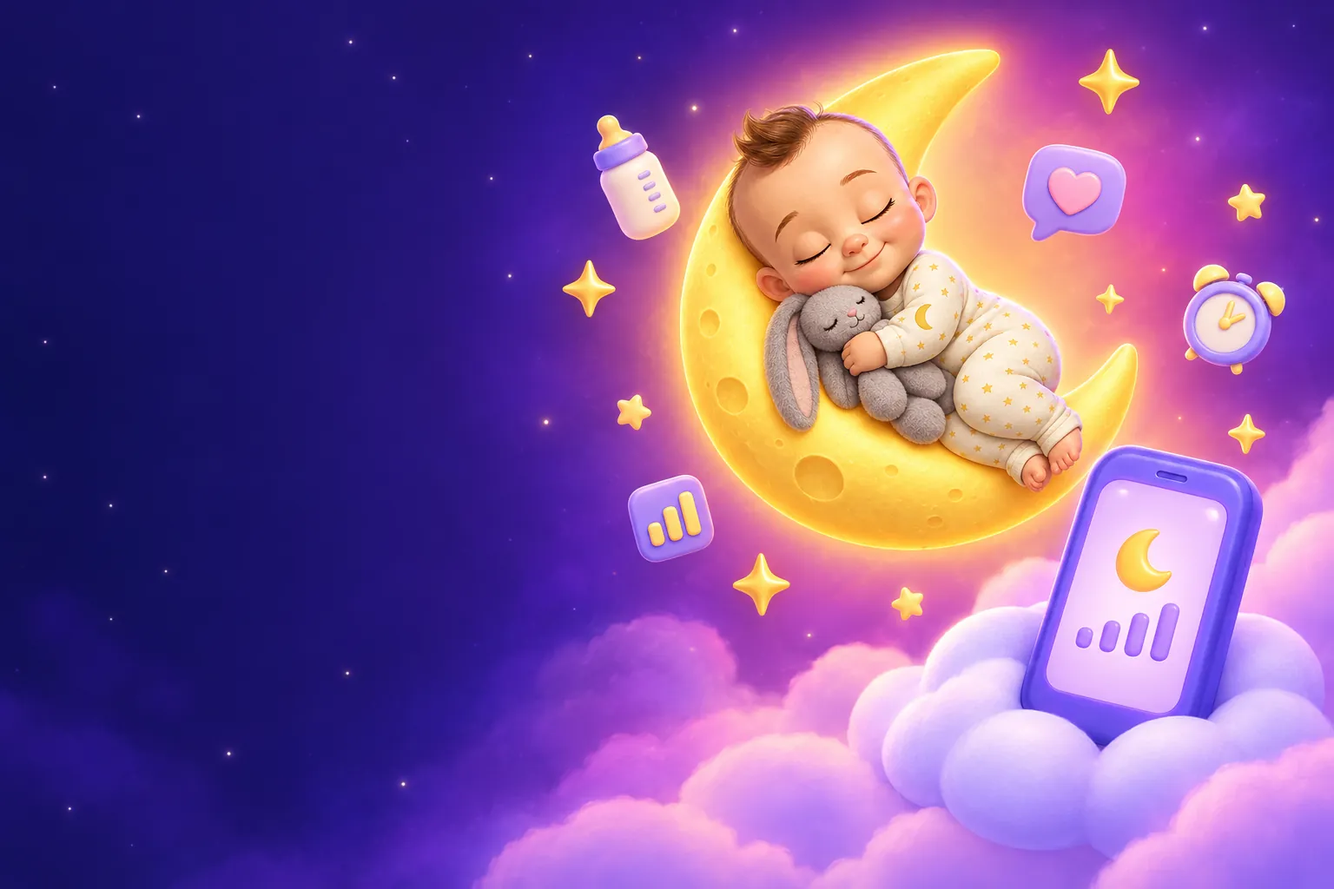
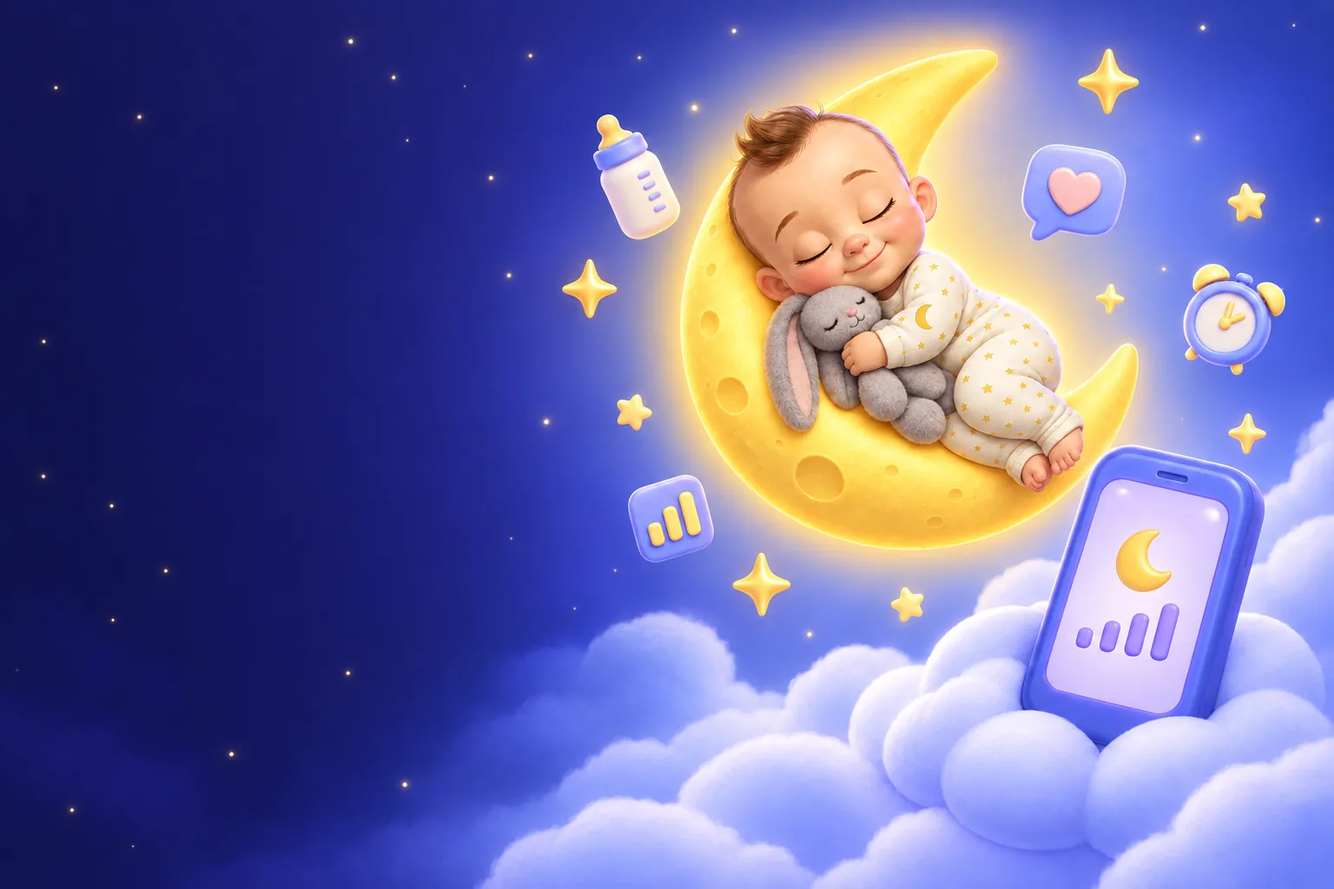
support: illustrated topic panels; the site's own palette; no reply-time promise
- The questions on the support page are no longer a scatter of equal boxes:
  a chip row jumps to a topic, and every topic is a glass panel with its own
  «object on a cloud» illustration (three new ones drawn to match the set:
  card with a crown, padlock with a heart, lifebuoy with a wrench) and its
  questions as clean rows with a gold accent on the open one. Answers are
  larger and brighter everywhere (15–16 px at 80 % instead of 14 px at 65 %).
  Topic anchors sit outside the reveal animation so a jump lands exactly.
- The pink-magenta gradients were foreign to the site. The contact panel,
  the «still have questions» teaser, the About mission card and the App
  Store banner are now in the site's indigo / periwinkle / gold; the banner
  scene was redrawn in that palette (same composition, no pink). The form
  uses the site's glass fields and its white pill.
- «We reply within 3 working days» is gone from the interface — the pill,
  the teaser line and the after-send message in 23 languages (it stays in
  the offer, where it belongs).

diff --git a/app/info/SupportPage.tsx b/app/info/SupportPage.tsx
@@ -1,4 +1,4 @@
-import { Clock, Gift, Mail } from 'lucide-react';
+import { Gift, Mail } from 'lucide-react';
 import { Art, Sparkle } from '../home/art';
 import { CtaBand, FaqItem, whitePill } from '../home/CtaBand';
 import { docsLang, isRtl, siteCopy, type SiteLocale } from '../i18n';
@@ -11,6 +11,8 @@ import { sellsHere } from '../subscription/region';
 import { StarField } from '../subscription/StarField';
 
 const topicIcons = ['icon-sparkle', 'icon-card', 'icon-heart', 'icon-clock', 'icon-bolt'];
+// One scene of the «object on a cloud» set per topic, in the order of `support.topics`.
+const topicArt = ['scene-phone', 'scene-card', 'scene-lock', 'scene-clock', 'scene-help'];
 
 // The help page every app of this kind has (Napper's Support, Huckleberry's
 // Help): questions grouped by topic, answered with the app's own labels,
@@ -64,21 +66,47 @@ export async function SupportPage({ locale }: { locale: SiteLocale }) {
           </div>
         </section>
 
-        <section className="mx-auto grid max-w-7xl gap-10 px-5 pb-6 sm:px-8 lg:px-10">
+        <nav aria-label={copy.eyebrow} className="mx-auto max-w-7xl px-5 pb-6 sm:px-8 lg:px-10">
+          <ul className="-mx-5 flex gap-2 overflow-x-auto px-5 pb-1 [scrollbar-width:none] sm:mx-0 sm:flex-wrap sm:overflow-visible sm:px-0 [&::-webkit-scrollbar]:hidden">
+            {copy.topics.map((topic, index) => (
+              <li className="shrink-0" key={topic.title}>
+                <a
+                  className="inline-flex items-center gap-2 whitespace-nowrap rounded-full border border-white/12 bg-white/[0.06] py-1.5 pe-4 ps-1.5 text-sm font-medium text-white/85 backdrop-blur transition hover:border-white/30 hover:bg-white/[0.1] hover:text-white"
+                  href={`#topic-${index + 1}`}
+                >
+                  <span className="grid h-8 w-8 place-items-center rounded-full bg-white/[0.08]">
+                    <Art className="h-5 w-5 object-contain" height={192} name={topicIcons[index] ?? 'icon-question'} width={192} />
+                  </span>
+                  {topic.title}
+                </a>
+              </li>
+            ))}
+          </ul>
+        </nav>
+
+        <section className="mx-auto grid max-w-7xl gap-6 px-5 pb-6 sm:px-8 lg:px-10">
           {copy.topics.map((topic, index) => (
-            <Reveal key={topic.title}>
-              <div className="flex items-center gap-3">
-                <span className="grid h-11 w-11 shrink-0 place-items-center rounded-full bg-white/[0.08] ring-1 ring-white/15">
-                  <Art className="h-7 w-7 object-contain" height={192} name={topicIcons[index] ?? 'icon-question'} width={192} />
-                </span>
-                <h2 className="text-xl font-semibold text-white sm:text-2xl">{topic.title}</h2>
-              </div>
-              <div className="mt-4 grid items-start gap-3 md:grid-cols-2">
-                {topic.items.map((item) => (
-                  <FaqItem answer={item.answer} key={item.question} question={item.question} />
-                ))}
-              </div>
+            // The anchor sits outside Reveal: a panel still sliding in would make the jump land short.
+            <div className="scroll-mt-6" id={`topic-${index + 1}`} key={topic.title}>
+            <Reveal>
+              <article className="relative isolate overflow-hidden rounded-[2rem] border border-white/10 bg-[linear-gradient(160deg,rgb(255_255_255/0.08),rgb(255_255_255/0.03))] p-5 shadow-[0_30px_90px_rgb(0_0_0/18%)] backdrop-blur-xl sm:p-8 lg:grid lg:grid-cols-[14rem_1fr] lg:items-start lg:gap-10">
+                <div aria-hidden="true" className="absolute -start-16 -top-16 -z-10 h-64 w-64 rounded-full bg-[#6366F1]/25 blur-3xl" />
+                <header className="flex items-center gap-4 lg:sticky lg:top-6 lg:block lg:text-center">
+                  <div aria-hidden="true" className="w-20 shrink-0 sm:w-24 lg:mx-auto lg:w-44">
+                    <div className={index % 2 === 0 ? 'float-slow' : 'float-slower'}>
+                      <Art className="h-auto w-full drop-shadow-[0_18px_30px_rgb(15_16_34/40%)]" height={440} name={topicArt[index] ?? 'scene-phone'} width={440} />
+                    </div>
+                  </div>
+                  <h2 className="text-xl font-semibold leading-7 text-white sm:text-2xl lg:mt-3">{topic.title}</h2>
+                </header>
+                <div className="mt-3 divide-y divide-white/10 border-t border-white/10 lg:mt-0 lg:border-t-0">
+                  {topic.items.map((item) => (
+                    <FaqItem answer={item.answer} key={item.question} question={item.question} variant="row" />
+                  ))}
+                </div>
+              </article>
             </Reveal>
+            </div>
           ))}
           {web ? (
             <p className="text-sm leading-6 text-white/70">
@@ -91,8 +119,9 @@ export async function SupportPage({ locale }: { locale: SiteLocale }) {
 
         <section className="mx-auto max-w-7xl scroll-mt-6 px-5 py-10 sm:px-8 lg:px-10" id="contact">
           <Reveal>
-            <div className="relative isolate overflow-hidden rounded-[2rem] border border-white/15 bg-[radial-gradient(120%_150%_at_8%_0%,#DB2777_0%,#9333EA_36%,#5B21B6_62%,#2E1065_100%)] shadow-[0_40px_120px_rgb(147_51_234/35%)]">
-              <div aria-hidden="true" className="absolute -bottom-32 -start-20 -z-10 h-80 w-80 rounded-full bg-[#FDE68A]/20 blur-3xl" />
+            <div className="relative isolate overflow-hidden rounded-[2rem] border border-white/12 bg-[linear-gradient(135deg,#312E81_0%,#3730A3_45%,#4F46E5_100%)] shadow-[0_30px_90px_rgb(79_70_229/30%)]">
+              <div aria-hidden="true" className="absolute -top-24 start-[4%] -z-10 h-72 w-72 rounded-full bg-[#FDE68A]/15 blur-3xl" />
+              <Art className="drift pointer-events-none absolute -bottom-[18%] start-[-5%] -z-10 w-[110%] max-w-none opacity-25 rtl:-scale-x-100" height={511} name="cloud-bank" width={1536} />
               <div className="grid gap-8 p-6 sm:p-10 lg:grid-cols-[0.82fr_1.18fr] lg:items-center lg:gap-12">
                 <div className="text-center lg:text-start">
                   <div aria-hidden="true" className="relative mx-auto w-[min(62%,15rem)] lg:mx-0 lg:w-[min(80%,19rem)]">
@@ -103,12 +132,8 @@ export async function SupportPage({ locale }: { locale: SiteLocale }) {
                   <p className="mt-6 text-sm font-semibold uppercase tracking-wide text-[#FDE68A]">{copy.contact.title}</p>
                   <h2 className="mt-2 text-[2rem] font-semibold leading-[1.1] text-white sm:text-[2.4rem]">{site.footerLabels.write}</h2>
                   <p className="mx-auto mt-4 max-w-md text-base leading-7 text-white/85 lg:mx-0">{copy.contact.body}</p>
-                  <p className="mt-5 inline-flex items-center gap-2 rounded-full bg-white/15 px-4 py-2 text-sm font-semibold text-white ring-1 ring-white/25 backdrop-blur">
-                    <Clock aria-hidden="true" className="h-4 w-4" />
-                    {copy.contact.reply}
-                  </p>
                 </div>
-                <div className="rounded-[1.75rem] bg-white/10 p-5 ring-1 ring-white/20 backdrop-blur-xl sm:p-7">
+                <div className="rounded-[1.75rem] border border-white/12 bg-[#1E1B4B]/45 p-5 backdrop-blur-xl sm:p-7">
                   <ContactForm
                     copy={copy.form}
                     lang={locale}

diff --git a/app/info/ContactForm.tsx b/app/info/ContactForm.tsx
@@ -93,8 +93,8 @@ export function ContactForm({
 
   const label = 'block text-sm font-semibold text-white';
   const field =
-    'mt-2 w-full rounded-2xl border-2 border-transparent bg-white px-4 py-3 text-base text-[#1E1B4B] shadow-[0_10px_30px_rgb(30_27_75/18%)] placeholder:text-[#1E1B4B]/40 focus:border-[#FDE68A] focus:outline-none';
-  const alert = 'rounded-2xl bg-[#1E1B4B]/55 px-4 py-3 text-sm font-medium text-[#FDE68A]';
+    'mt-2 w-full rounded-2xl border border-white/20 bg-white/[0.08] px-4 py-3 text-base text-white placeholder:text-white/40 transition focus:border-[#FDE68A]/80 focus:bg-white/[0.12] focus:outline-none';
+  const alert = 'rounded-2xl bg-[#FDE68A]/15 px-4 py-3 text-sm font-medium text-[#FDE68A]';
   return (
     <form className="grid gap-4" noValidate onSubmit={(event) => void submit(event)}>
       <div className="grid gap-4 sm:grid-cols-2">
@@ -125,14 +125,14 @@ export function ContactForm({
         </p>
       ) : null}
       <button
-        className="inline-flex min-h-14 w-full items-center justify-center gap-2.5 rounded-full bg-[#FDE68A] px-7 text-base font-semibold text-[#1E1B4B] shadow-[0_18px_44px_rgb(253_230_138/28%)] transition hover:-translate-y-0.5 hover:bg-[#FCD34D] focus:outline-none focus-visible:ring-4 focus-visible:ring-white/50 disabled:translate-y-0 disabled:opacity-70"
+        className="inline-flex min-h-14 w-full items-center justify-center gap-2.5 rounded-full bg-white px-7 text-base font-semibold text-[#1E1B4B] shadow-[0_18px_50px_rgb(255_255_255/14%)] transition hover:-translate-y-0.5 hover:bg-[#EEF2FF] focus:outline-none focus-visible:ring-4 focus-visible:ring-white/30 disabled:translate-y-0 disabled:opacity-70"
         disabled={state === 'sending'}
         type="submit"
       >
         {state === 'sending' ? <Spinner className="h-5 w-5" /> : <Send aria-hidden="true" className="h-5 w-5 rtl:-scale-x-100" />}
         {state === 'sending' ? copy.sending : copy.send}
       </button>
-      <p className="text-center text-xs leading-5 text-white/70">
+      <p className="text-center text-xs leading-5 text-white/60">
         {copy.privacy}{' '}
         <a className="font-semibold text-white underline decoration-white/40 underline-offset-2 hover:decoration-white" href={privacyHref}>
           {privacyLabel}

diff --git a/app/home/CtaBand.tsx b/app/home/CtaBand.tsx
@@ -53,14 +53,29 @@ export function CtaBand({ title, body, action, note }: { title: string; body: st
 // word joiner keeps number ranges on one line.
 const keepRanges = (text: string) => text.replace(/(\d[–-])(?=\d)/g, '$1\u2060');
 
-export function FaqItem({ question, answer }: { question: string; answer: string }) {
+// `card` is a box of its own (home, subscription); `row` is a line inside a
+// topic panel (support), separated from its neighbours by the panel's rules.
+export function FaqItem({ question, answer, variant = 'card' }: { question: string; answer: string; variant?: 'card' | 'row' }) {
+  if (variant === 'row') {
+    return (
+      <details className="group">
+        <summary className="flex cursor-pointer list-none items-center justify-between gap-4 py-4 text-[17px] font-medium leading-7 text-white/90 transition hover:text-white focus:outline-none focus-visible:underline [&::-webkit-details-marker]:hidden">
+          {question}
+          <span className="grid h-9 w-9 shrink-0 place-items-center rounded-full border border-white/15 bg-white/[0.06] transition duration-300 group-open:rotate-45 group-open:border-[#FDE68A]/60 group-open:bg-[#FDE68A]/15">
+            <Plus className="h-4 w-4 text-white transition group-open:text-[#FDE68A]" aria-hidden="true" />
+          </span>
+        </summary>
+        <p className="max-w-3xl pb-5 pe-12 text-base leading-7 text-white/80">{keepRanges(answer)}</p>
+      </details>
+    );
+  }
   return (
     <details className="group rounded-2xl border border-white/12 bg-white/[0.06] backdrop-blur-xl transition open:bg-white/[0.09] hover:border-white/25">
       <summary className="flex min-h-20 cursor-pointer list-none items-center justify-between gap-4 px-5 py-4 text-[15px] font-medium leading-6 text-white focus:outline-none focus-visible:underline [&::-webkit-details-marker]:hidden">
         {question}
         <Plus className="h-5 w-5 shrink-0 text-white/70 transition duration-300 group-open:rotate-45" aria-hidden="true" />
       </summary>
-      <p className="px-5 pb-5 text-sm leading-6 text-white/65">{keepRanges(answer)}</p>
+      <p className="px-5 pb-5 text-[15px] leading-7 text-white/80">{keepRanges(answer)}</p>
     </details>
   );
 }

diff --git a/app/i18n/th.ts b/app/i18n/th.ts
@@ -327,7 +327,6 @@ export const translation: SiteTranslation = {
     contact: {
       title: 'ยังมีคำถามอยู่ไหม?',
       body: 'เขียนถึงเราได้ที่นี่ หรือในแอป ไปที่ การตั้งค่า → “เขียนถึงเรา” เพื่อเปิดแชทกับเรา',
-      reply: 'เราจะตอบกลับภายใน 3 วันทำการ',
     },
     form: {
       name: 'ชื่อของคุณ',
@@ -336,7 +335,7 @@ export const translation: SiteTranslation = {
       messagePlaceholder: 'เล่าให้เราฟังว่าเกิดอะไรขึ้นหรืออยากรู้เรื่องอะไร',
       send: 'ส่ง',
       sending: 'กำลังส่ง…',
-      sent: 'ขอบคุณ ได้รับข้อความของคุณแล้ว เราจะตอบกลับทางอีเมลภายใน 3 วันทำการ',
+      sent: 'ขอบคุณ ได้รับข้อความของคุณแล้ว เราจะตอบกลับทางอีเมล',
       error: 'ส่งข้อความไม่สำเร็จ ลองอีกครั้งในอีกหนึ่งนาที หรือเขียนถึงเราในแอปได้ที่ การตั้งค่า → “เขียนถึงเรา”',
       invalid: 'กรอกอีเมลและข้อความอย่างน้อย 10 ตัวอักษร',
       privacy: 'เราใช้อีเมลและข้อความของคุณเพื่อตอบกลับเท่านั้น',

diff --git a/app/i18n/hi.ts b/app/i18n/hi.ts
@@ -327,7 +327,6 @@ export const translation: SiteTranslation = {
     contact: {
       title: 'अब भी मदद चाहिए?',
       body: 'हमें यहाँ लिखें — या ऐप में: सेटिंग्स → “हमें लिखें” से हमारे साथ चैट खुलती है।',
-      reply: 'हम 3 कार्य दिवसों के भीतर जवाब देते हैं।',
     },
     form: {
       name: 'आपका नाम',
@@ -336,7 +335,7 @@ export const translation: SiteTranslation = {
       messagePlaceholder: 'बताइए कि क्या हुआ या आप क्या जानना चाहते हैं',
       send: 'भेजें',
       sending: 'भेजा जा रहा है…',
-      sent: 'धन्यवाद! हमें आपका संदेश मिल गया है, हम 3 कार्य दिवसों के भीतर ईमेल से जवाब देंगे।',
+      sent: 'धन्यवाद! हमें आपका संदेश मिल गया है, हम ईमेल से जवाब देंगे।',
       error: 'संदेश नहीं भेजा जा सका। एक मिनट बाद फिर कोशिश करें — या हमें ऐप में लिखें: सेटिंग्स → “हमें लिखें”।',
       invalid: 'अपना ईमेल और कम से कम 10 अक्षरों का संदेश लिखें।',
       privacy: 'आपका ईमेल और संदेश हम सिर्फ़ आपको जवाब देने के लिए इस्तेमाल करते हैं।',

diff --git a/app/info/ContactTeaser.tsx b/app/info/ContactTeaser.tsx
@@ -11,13 +11,10 @@ export function ContactTeaser({ locale }: { locale: SiteLocale }) {
   const support = locale === 'en' ? '/support' : `/${locale}/support`;
   return (
     <Reveal>
-      <div className="relative isolate mt-8 flex flex-col items-center gap-5 overflow-hidden rounded-[1.75rem] border border-white/15 bg-[linear-gradient(100deg,#5B21B6_0%,#9333EA_55%,#DB2777_100%)] p-5 text-center shadow-[0_24px_70px_rgb(147_51_234/30%)] sm:flex-row sm:justify-between sm:p-6 sm:text-start">
+      <div className="relative isolate mt-8 flex flex-col items-center gap-5 overflow-hidden rounded-[1.75rem] border border-white/12 bg-[linear-gradient(100deg,rgb(99_102_241/0.22)_0%,rgb(255_255_255/0.05)_60%)] p-5 text-center backdrop-blur-xl sm:flex-row sm:justify-between sm:p-6 sm:text-start">
         <div className="flex flex-col items-center gap-4 sm:flex-row">
           <Art className="h-20 w-20 shrink-0 object-contain drop-shadow-[0_12px_24px_rgb(30_27_75/40%)]" height={765} name="contact-letter" width={760} />
-          <div className="min-w-0">
-            <p className="text-xl font-semibold leading-7 text-white">{site.support.contact.title}</p>
-            <p className="mt-1 text-sm leading-6 text-white/80">{site.support.contact.reply}</p>
-          </div>
+          <p className="min-w-0 text-xl font-semibold leading-7 text-white">{site.support.contact.title}</p>
         </div>
         <a className={`${whitePill} shrink-0`} href={`${support}#contact`}>
           <Mail aria-hidden="true" className="h-5 w-5" />

diff --git a/app/i18n/uk.ts b/app/i18n/uk.ts
@@ -326,7 +326,6 @@ export const translation: SiteTranslation = {
     contact: {
       title: 'Залишилися запитання?',
       body: 'Напишіть нам тут — або в застосунку: Налаштування → «Написати нам» відкриє чат із нами.',
-      reply: 'Відповідаємо протягом 3 робочих днів.',
     },
     form: {
       name: 'Ваше ім’я',
@@ -335,7 +334,7 @@ export const translation: SiteTranslation = {
       messagePlaceholder: 'Розкажіть, що сталося або що хочете дізнатися',
       send: 'Надіслати',
       sending: 'Надсилаємо…',
-      sent: 'Дякуємо! Ми отримали ваше повідомлення й відповімо на e-mail протягом 3 робочих днів.',
+      sent: 'Дякуємо! Ми отримали ваше повідомлення й відповімо на e-mail.',
       error: 'Не вдалося надіслати. Спробуйте ще раз за хвилину — або напишіть нам у застосунку: Налаштування → «Написати нам».',
       invalid: 'Вкажіть e-mail і повідомлення — щонайменше 10 символів.',
       privacy: 'Ваш e-mail і повідомлення використовуємо лише для відповіді.',

diff --git a/app/i18n/ru.ts b/app/i18n/ru.ts
@@ -198,7 +198,6 @@ export const translation: SiteTranslation = {
     contact: {
       title: 'Остались вопросы?',
       body: 'Напишите нам здесь — или в приложении: Настройки → «Написать нам» откроет чат с нами.',
-      reply: 'Отвечаем в течение 3 рабочих дней.',
     },
     form: {
       name: 'Ваше имя',
@@ -207,7 +206,7 @@ export const translation: SiteTranslation = {
       messagePlaceholder: 'Расскажите, что случилось или что хотите узнать',
       send: 'Отправить',
       sending: 'Отправляем…',
-      sent: 'Спасибо! Сообщение получили — ответим на ваш e-mail в течение 3 рабочих дней.',
+      sent: 'Спасибо! Сообщение получили — ответим на ваш e-mail.',
       error: 'Не получилось отправить. Попробуйте ещё раз через минуту — или напишите нам в приложении: Настройки → «Написать нам».',
       invalid: 'Укажите e-mail и сообщение — хотя бы 10 символов.',
       privacy: 'Ваш e-mail и сообщение используем только для ответа.',

diff --git a/app/i18n/ja.ts b/app/i18n/ja.ts
@@ -327,7 +327,6 @@ export const translation: SiteTranslation = {
     contact: {
       title: 'まだ解決しませんか？',
       body: 'このフォームから、またはアプリの「設定」→「メッセージを送る」から、私たちと直接やり取りできます。',
-      reply: '3営業日以内にご返信します。',
     },
     form: {
       name: 'お名前',
@@ -336,7 +335,7 @@ export const translation: SiteTranslation = {
       messagePlaceholder: '起きたことや知りたいことをお書きください',
       send: '送信',
       sending: '送信中…',
-      sent: 'ありがとうございます。メッセージを受け付けました。3営業日以内にメールでご返信します。',
+      sent: 'ありがとうございます。メッセージを受け付けました。メールでご返信します。',
       error: '送信できませんでした。1分ほどしてからもう一度お試しいただくか、アプリの「設定」→「メッセージを送る」からご連絡ください。',
       invalid: 'メールアドレスと10文字以上のメッセージを入力してください。',
       privacy: 'メールアドレスとメッセージは、ご返信のためだけに使用します。',

diff --git a/app/i18n/ar.ts b/app/i18n/ar.ts
@@ -326,7 +326,6 @@ export const translation: SiteTranslation = {
     contact: {
       title: 'ما زلت بحاجة إلى مساعدة؟',
       body: 'راسلنا من هنا، أو من التطبيق: اضغط على «الإعدادات» ← «راسلنا» لتُفتح محادثة معنا.',
-      reply: 'نردّ خلال 3 أيام عمل.',
     },
     form: {
       name: 'اسمك',
@@ -335,7 +334,7 @@ export const translation: SiteTranslation = {
       messagePlaceholder: 'أخبرنا بما حدث أو بما تود معرفته',
       send: 'إرسال',
       sending: 'جارٍ الإرسال…',
-      sent: 'شكرًا! وصلتنا رسالتك وسنرد عليك بالبريد الإلكتروني خلال 3 أيام عمل.',
+      sent: 'شكرًا! وصلتنا رسالتك وسنرد عليك بالبريد الإلكتروني.',
       error: 'تعذّر إرسال الرسالة. حاول مرة أخرى بعد دقيقة، أو راسلنا من التطبيق: «الإعدادات» ← «راسلنا».',
       invalid: 'أدخل بريدك الإلكتروني ورسالة لا تقل عن 10 أحرف.',
       privacy: 'نستخدم بريدك الإلكتروني ورسالتك للرد عليك فقط.',

diff --git a/app/i18n/vi.ts b/app/i18n/vi.ts
@@ -335,7 +335,6 @@ export const translation: SiteTranslation = {
     contact: {
       title: 'Vẫn cần hỗ trợ?',
       body: 'Viết cho chúng tôi tại đây — hoặc ngay trong ứng dụng: Cài đặt → “Viết cho chúng tôi” sẽ mở cuộc trò chuyện với chúng tôi.',
-      reply: 'Chúng tôi phản hồi trong vòng 3 ngày làm việc.',
     },
     form: {
       name: 'Tên của bạn',
@@ -344,7 +343,7 @@ export const translation: SiteTranslation = {
       messagePlaceholder: 'Hãy kể điều đã xảy ra hoặc điều bạn muốn biết',
       send: 'Gửi',
       sending: 'Đang gửi…',
-      sent: 'Cảm ơn bạn! Chúng tôi đã nhận được tin nhắn và sẽ trả lời qua email trong vòng 3 ngày làm việc.',
+      sent: 'Cảm ơn bạn! Chúng tôi đã nhận được tin nhắn và sẽ trả lời qua email.',
       error: 'Không gửi được tin nhắn. Hãy thử lại sau một phút — hoặc viết cho chúng tôi ngay trong ứng dụng: Cài đặt → “Viết cho chúng tôi”.',
       invalid: 'Hãy nhập email và tin nhắn ít nhất 10 ký tự.',
       privacy: 'Chúng tôi chỉ dùng email và tin nhắn của bạn để trả lời bạn.',

diff --git a/app/i18n/he.ts b/app/i18n/he.ts
@@ -326,7 +326,6 @@ export const translation: SiteTranslation = {
     contact: {
       title: 'עדיין צריכים עזרה?',
       body: 'כתבו לנו כאן — או באפליקציה: Settings ← ״Write to us״ פותח צ׳אט איתנו.',
-      reply: 'אנחנו עונים תוך 3 ימי עבודה.',
     },
     form: {
       name: 'השם שלכם',
@@ -335,7 +334,7 @@ export const translation: SiteTranslation = {
       messagePlaceholder: 'ספרו לנו מה קרה או מה תרצו לדעת',
       send: 'שליחה',
       sending: 'שולחים…',
-      sent: 'תודה! קיבלנו את ההודעה ונענה באימייל תוך 3 ימי עבודה.',
+      sent: 'תודה! קיבלנו את ההודעה ונענה באימייל.',
       error: 'לא הצלחנו לשלוח את ההודעה. נסו שוב בעוד דקה — או כתבו לנו באפליקציה: Settings ← ״Write to us״.',
       invalid: 'הזינו אימייל והודעה של 10 תווים לפחות.',
       privacy: 'אנחנו משתמשים באימייל ובהודעה שלכם רק כדי לענות לכם.',
